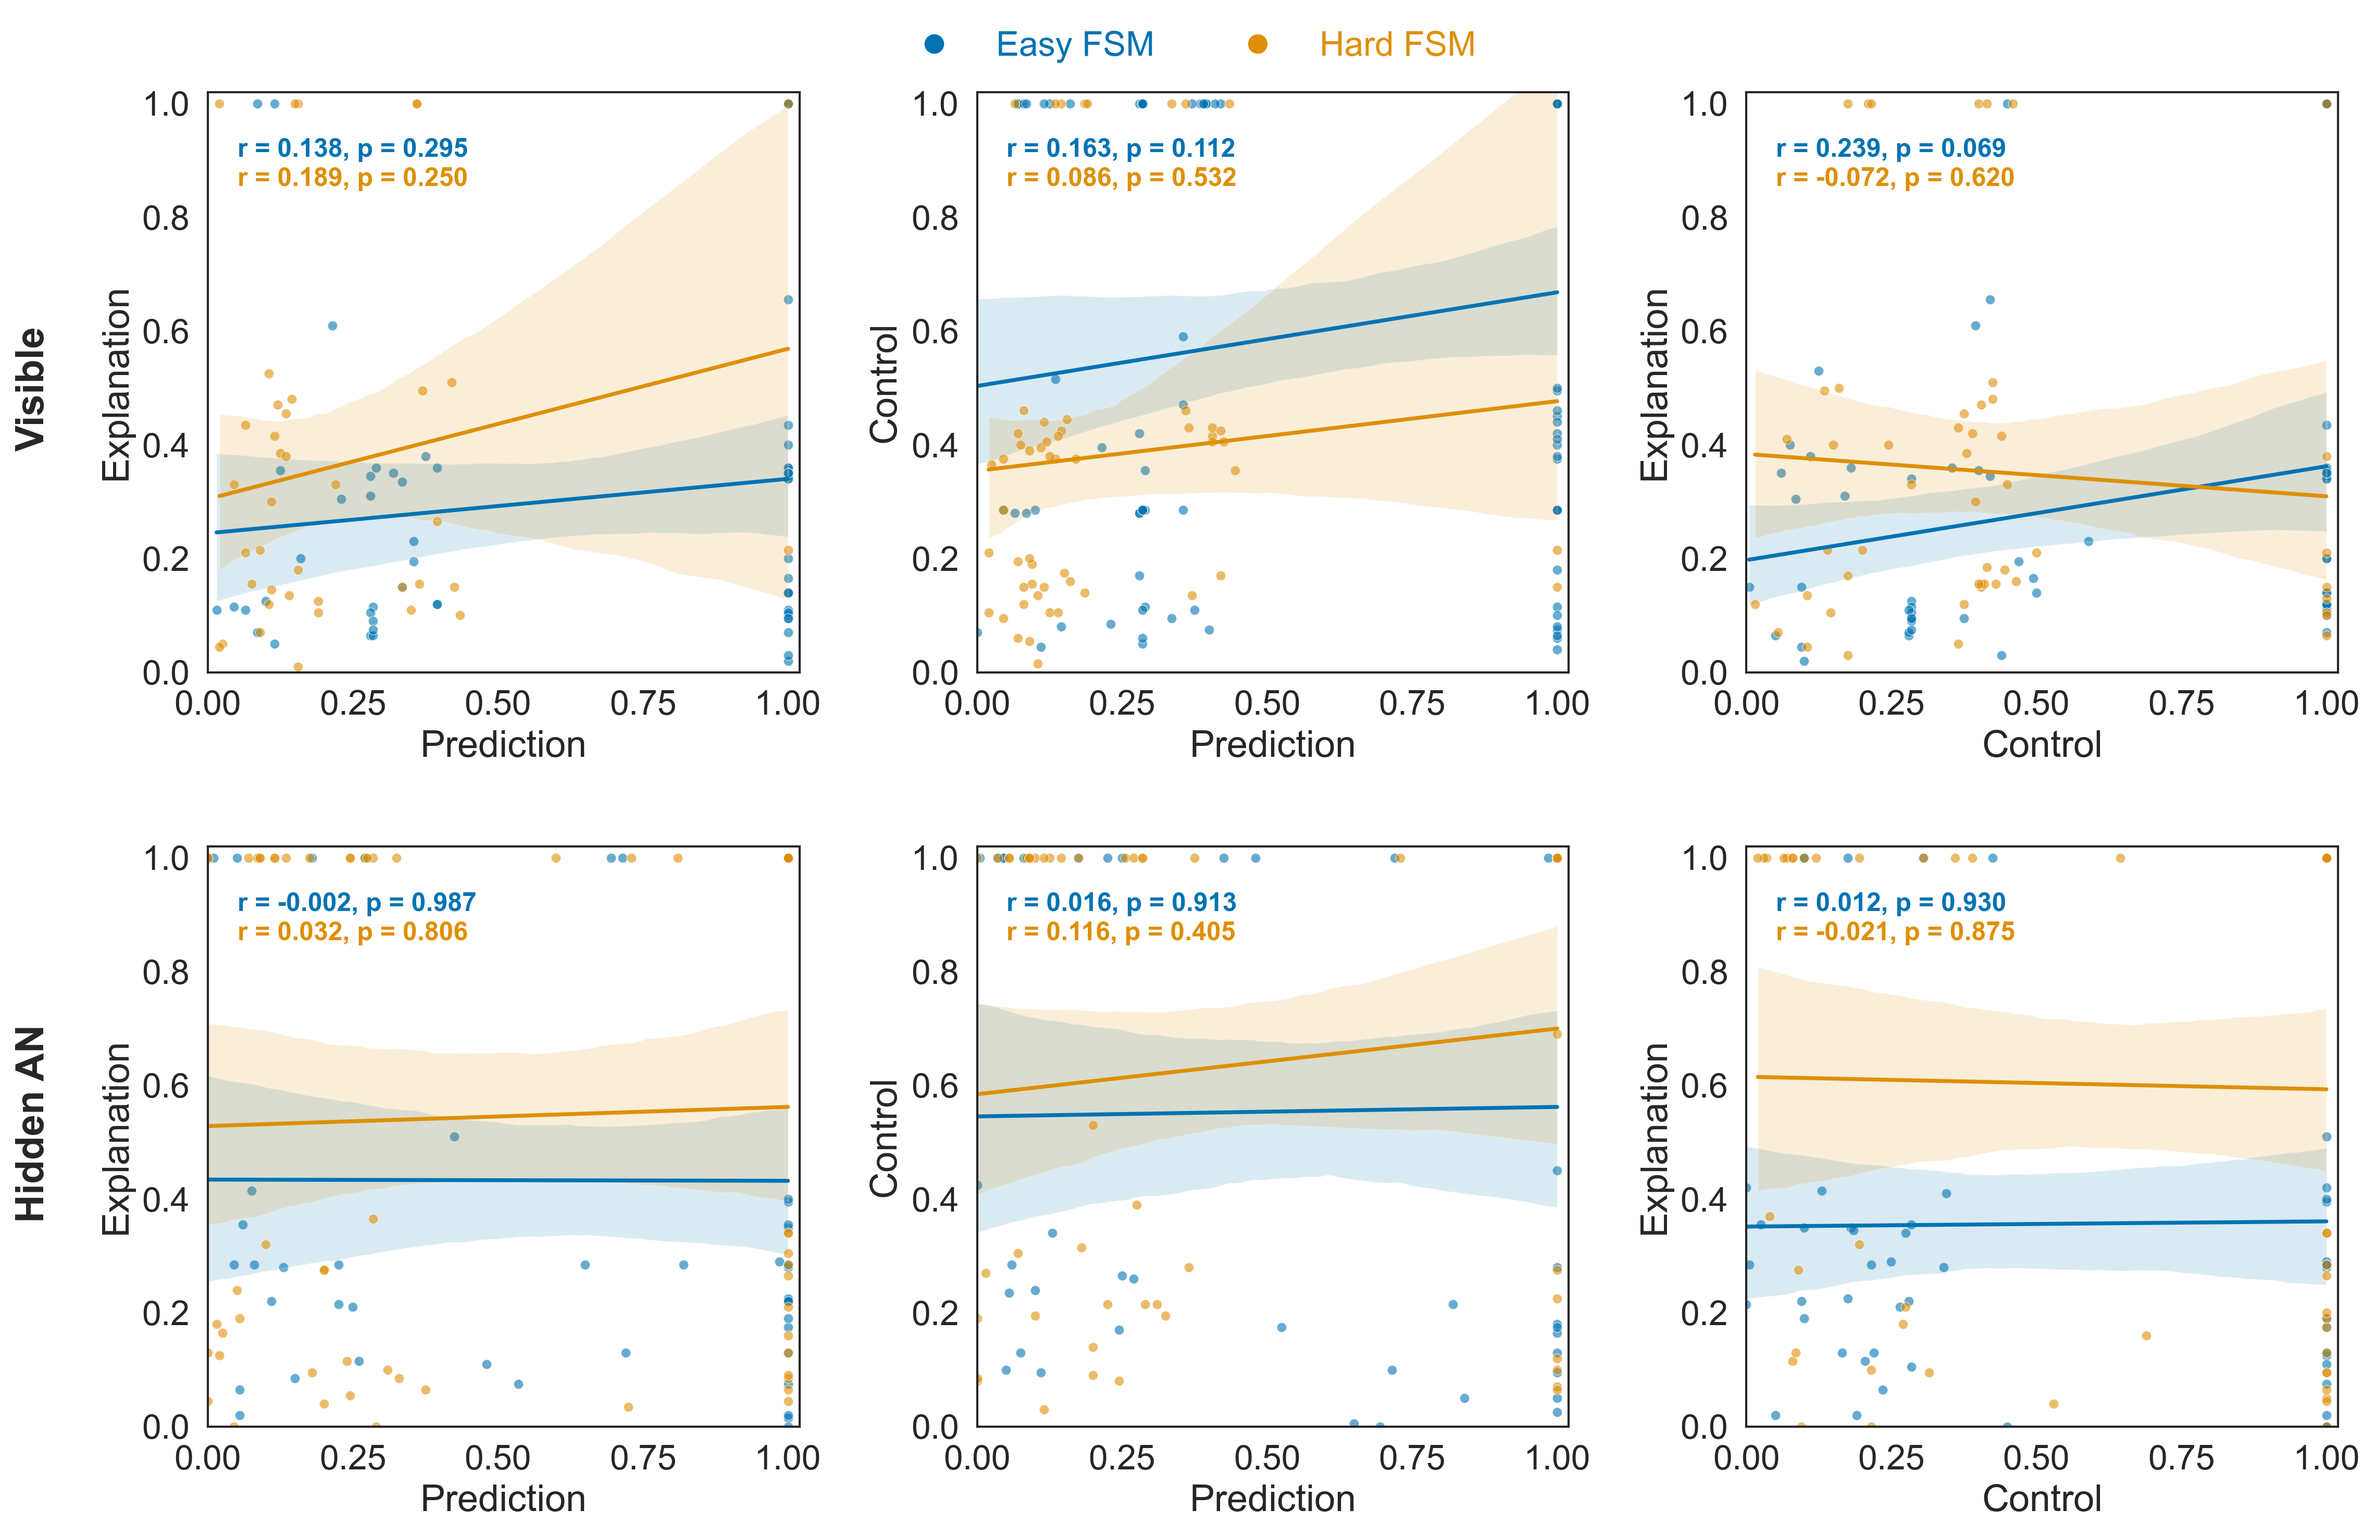
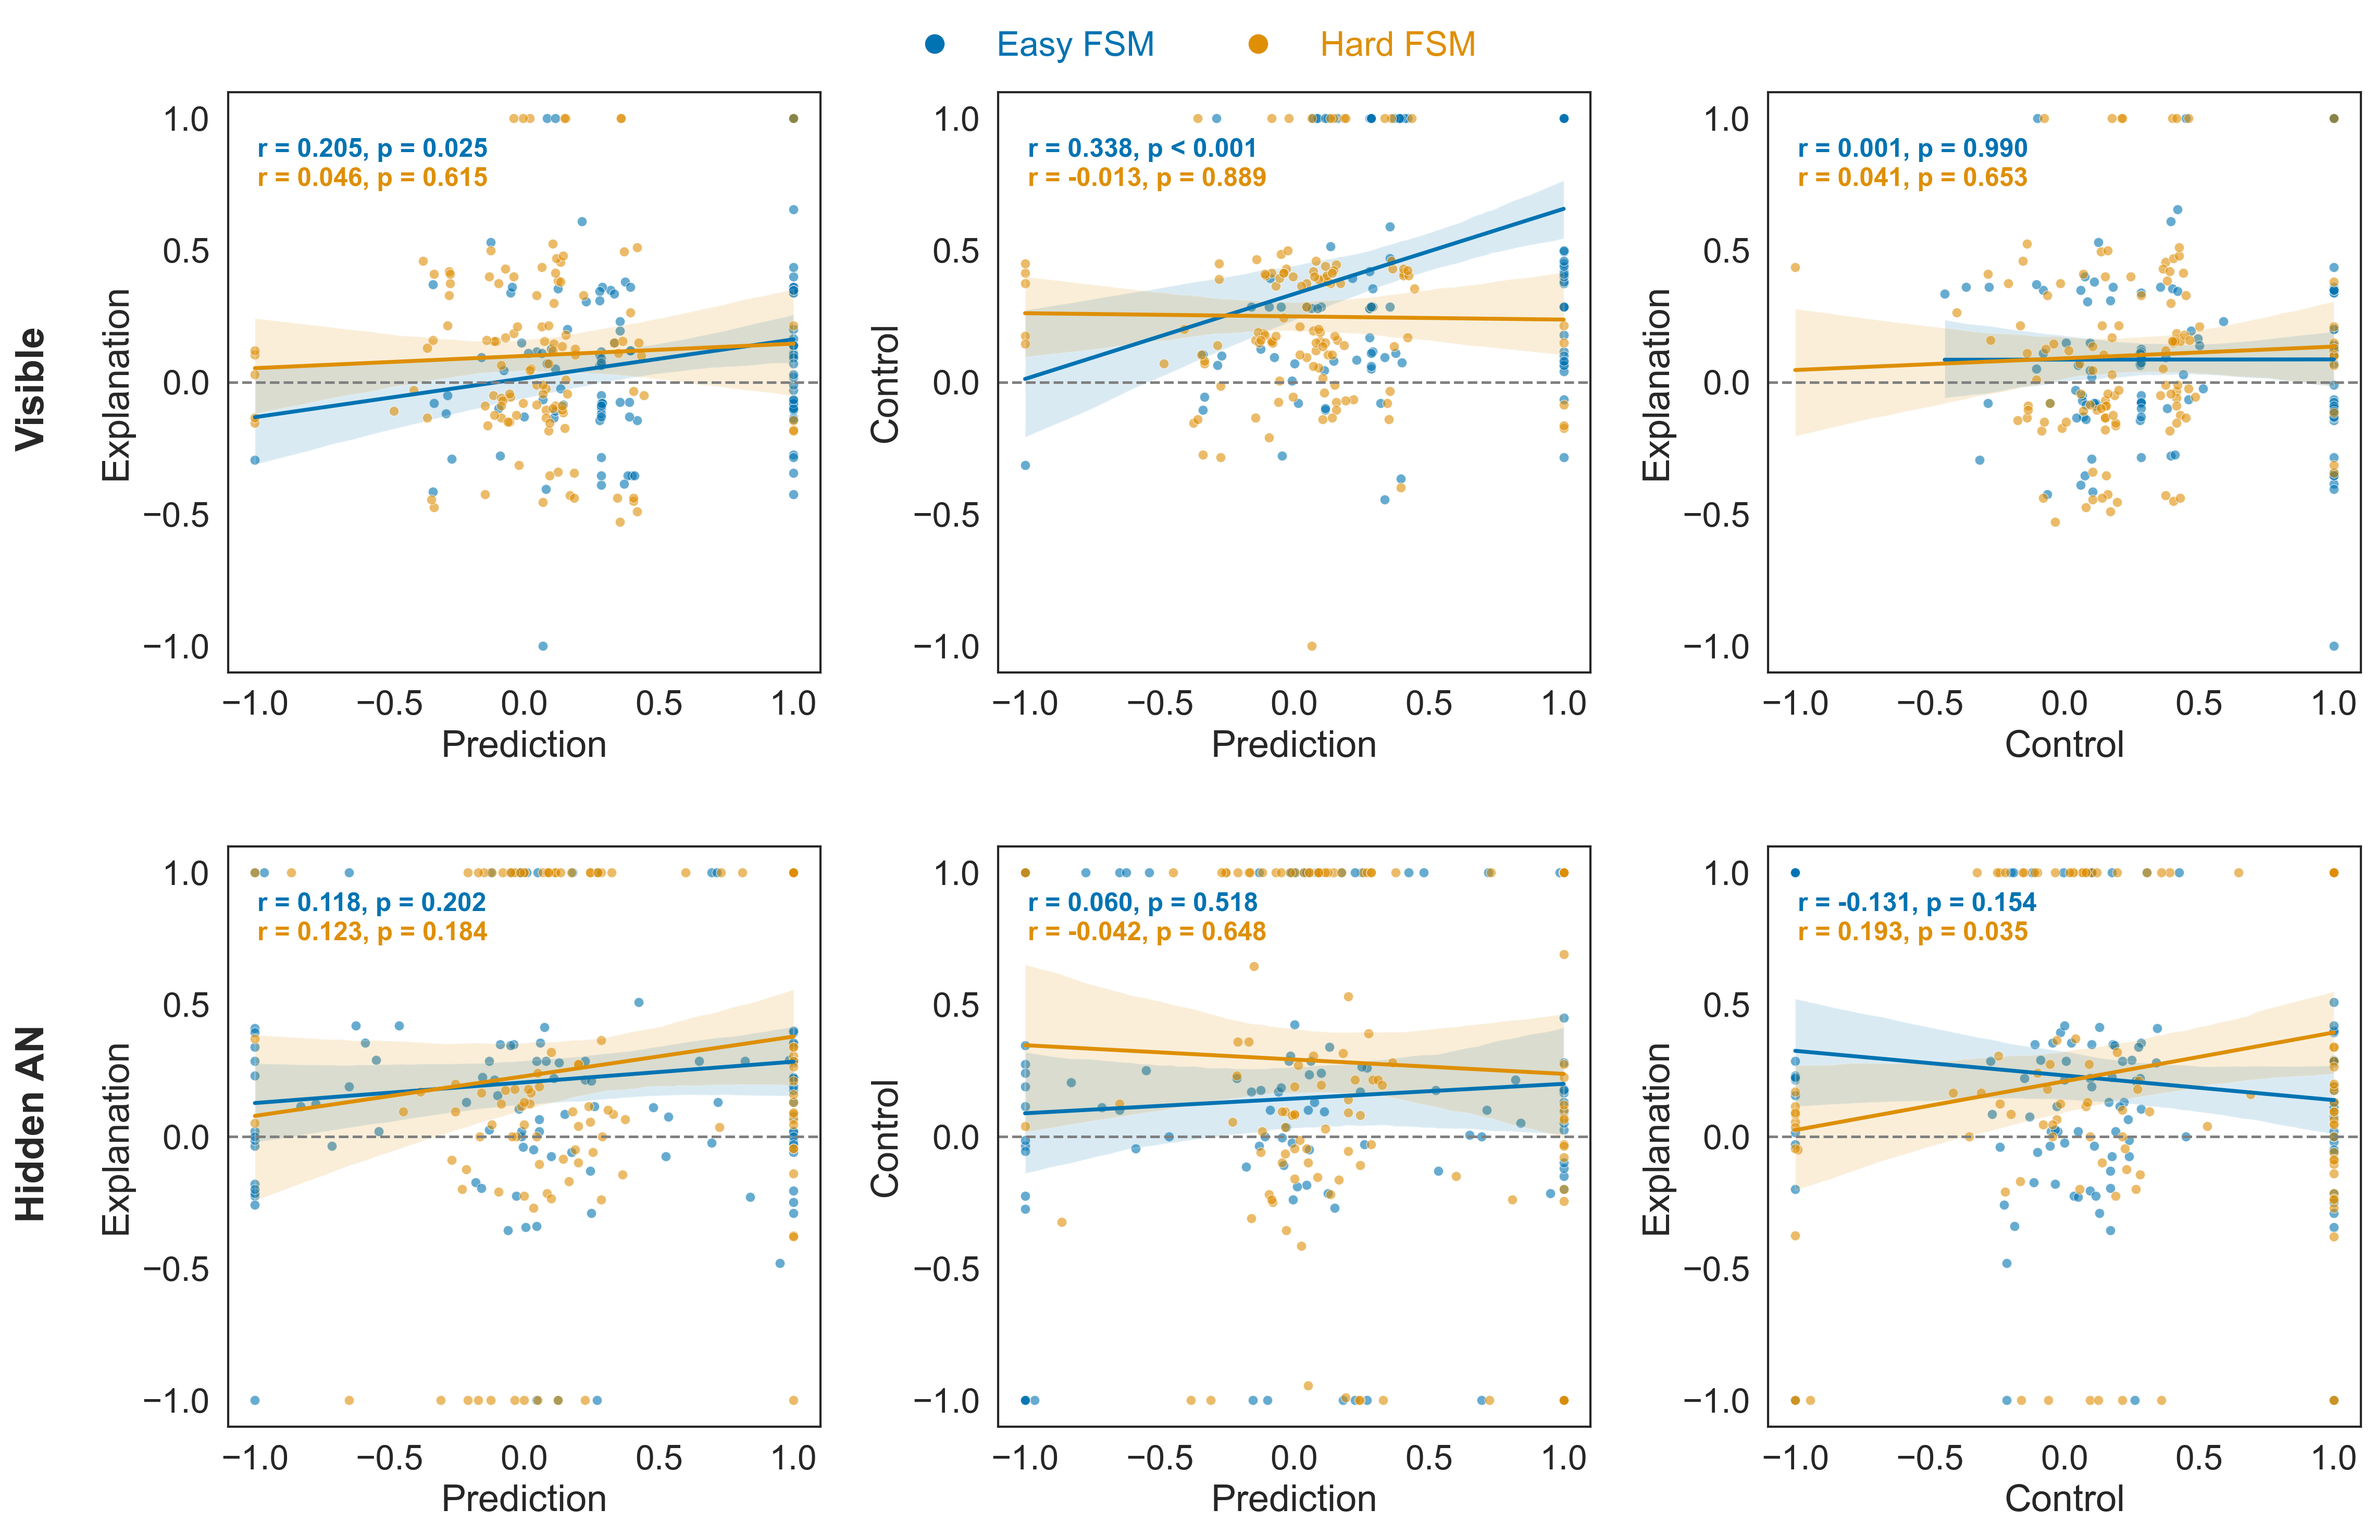
minor updates

diff --git a/experiment4/scripts_analysis/9-plot-correlations.py b/experiment4/scripts_analysis/9-plot-correlations.py
@@ -12,10 +12,7 @@ from scipy.stats import pearsonr
 current_dir = os.path.dirname(os.path.abspath(__file__))
 betas_long = pd.read_csv(os.path.join(current_dir, '../outputs/participants_max_betas.csv'))
 
-# remome beta below 0
-betas_long = betas_long[betas_long['max_beta'] > 0]
-
-# remove trial_type == 'hidden_an'
+# remove trial_type == 'hidden'
 betas_long = betas_long[betas_long['trial_type'] != 'hidden']
 
 # Styling
@@ -68,8 +65,8 @@ for i, feedback_condition in enumerate(pec):
         ax.set_ylabel(f"{task_y.capitalize()}")
         #ax.axhline(y=0, color='gray', linestyle='--')
         #ax.axvline(x=0, color='gray', linestyle='--')
-        ax.set_ylim(-0.01, 1.02)
-        ax.set_xlim(-0.01, 1.02)
+        #ax.set_ylim(-0.01, 1.02)
+        #ax.set_xlim(-0.01, 1.02)
 
         # Set tick labels
         #ax.set_yticks([-1,  -0.5, 0, 0.5, 1])

diff --git a/experiment3/scripts_analysis/8-plot-correlations.py b/experiment3/scripts_analysis/8-plot-correlations.py
@@ -17,9 +17,6 @@ betas_long = betas_long.replace({'easy': 'Easy FSM', 'hard': 'Hard FSM'})
 # filter out nan
 betas_long = betas_long[~np.isnan(betas_long['max_beta'])]
 
-# remome beta below 0
-betas_long = betas_long[betas_long['max_beta'] > 0]
-
 # Styling
 sns.set_style("white")
 sns.set_context("paper", font_scale=1.8)
@@ -65,8 +62,8 @@ for i, trial_type in enumerate(['visible', 'hidden_an']):
         ax.set_xlabel(f"{task_x.capitalize()}")
         ax.set_ylabel(f"{task_y.capitalize()}")
         ax.axhline(y=0, color='gray', linestyle='--')
-        ax.set_ylim(0, 1.02)
-        ax.set_xlim(0, 1.02)
+        #ax.set_ylim(0, 1.02)
+        #ax.set_xlim(0, 1.02)
 
         # Set tick labels
         #ax.set_yticks([-1,  -0.5, 0, 0.5, 1])
